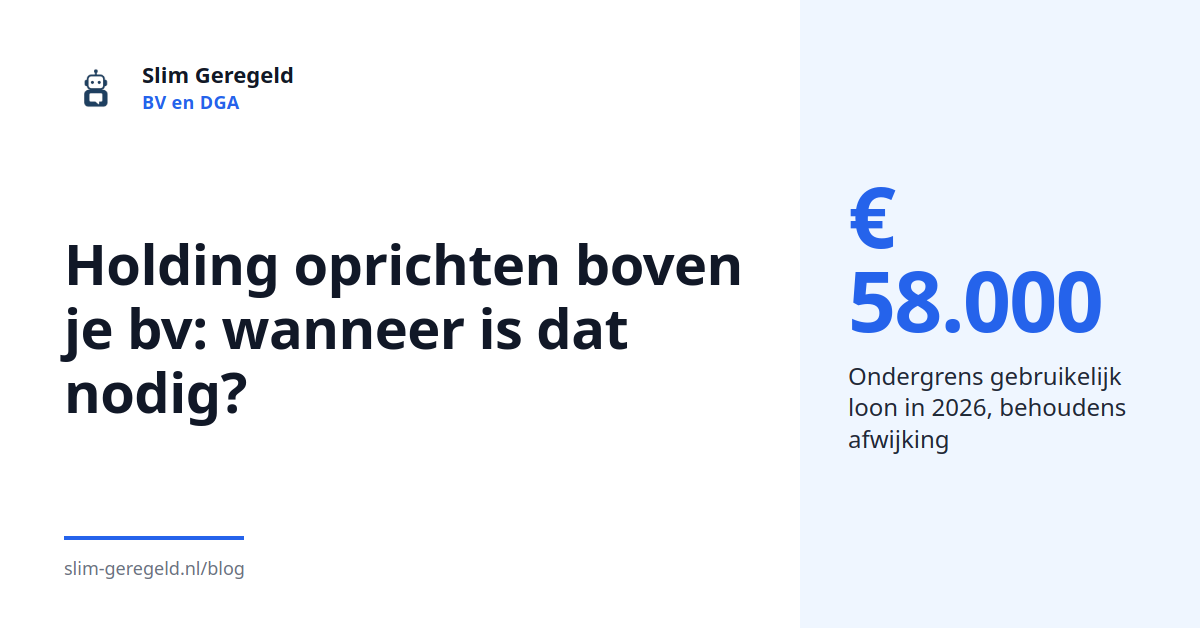
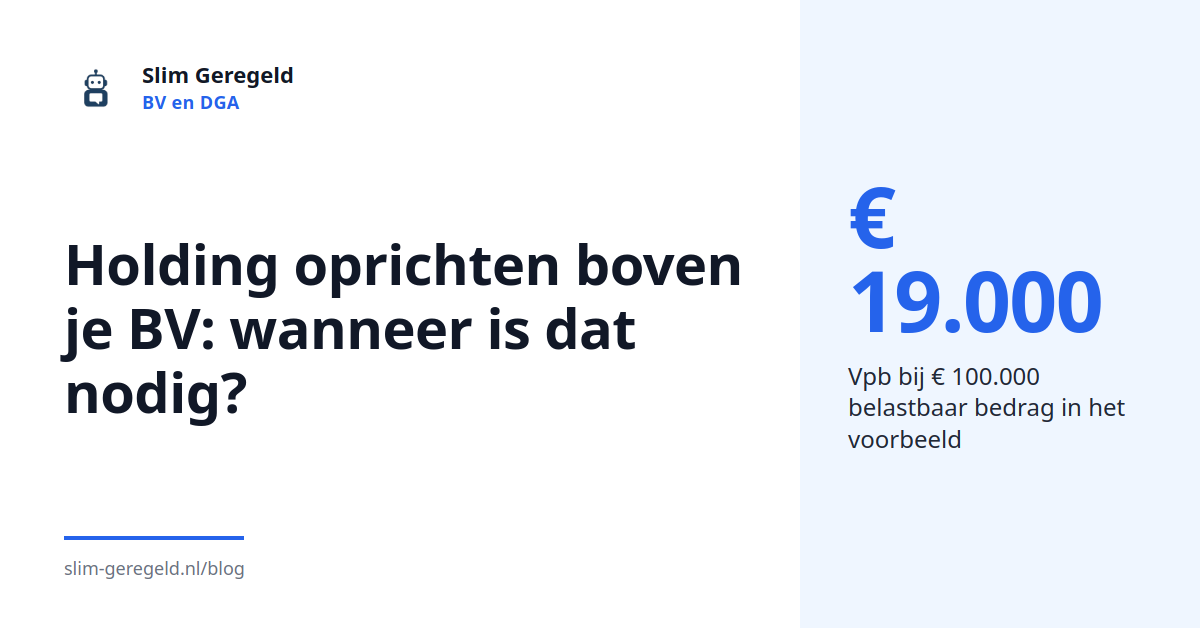
Blog bijgewerkt: Do you need a holding company above your Dutch BV? (nl+en)

Changed region(s): [[0.0925, 0.4841, 0.5242, 0.5748], [0.7092, 0.5748, 0.9558, 0.7261], [0.7092, 0.4236, 0.8017, 0.5446]]

diff --git a/content/blog/en/holding-company-above-dutch-bv.md b/content/blog/en/holding-company-above-dutch-bv.md
@@ -1,89 +1,76 @@
 ---
 title: "Do you need a holding company above your Dutch BV?"
-description: "I explain when a Dutch holding company makes sense, including corporate tax, director salary, asset protection and selling your business."
+description: "A holding company can separate assets from business risks. See what changes for Dutch corporate tax, director salary and dividends."
 date: 2026-11-05
 updated: 2026-11-05
 author: kyle
 lang: en
 translationKey: holding-company-above-dutch-bv
 cluster: bv-dga
-tags: ["holding company", "Dutch BV", "director salary", "corporate income tax", "business structure"]
+tags: ["holding company", "Dutch BV", "corporate income tax", "director salary"]
 faq:
-  - q: "Does every Dutch BV need a holding company?"
-    a: "A BV can operate independently. I assess a holding structure against the assets you want to separate, your business risks and your plans for a future sale."
-  - q: "Does a holding company remove corporate income tax?"
-    a: "Business profits remain subject to corporate income tax. A qualifying fiscal unity allows the parent company to file for the combined results."
-  - q: "Can I stop paying myself a salary after adding a holding?"
-    a: "Adding a holding does not create a salary exemption. The customary salary rules remain relevant when you work for a company in which you hold a substantial interest."
-  - q: "Can I add a holding above an existing BV?"
-    a: "An ownership restructuring may make this possible. Have the tax consequences and notarial requirements assessed before transferring your shares."
+  - q: "Is a holding company compulsory for a Dutch BV?"
+    a: "A holding company is not a general requirement for operating a BV. The decision depends on the assets you want to separate, business risks and possible sale plans."
+  - q: "Does adding a holding company reduce corporate income tax?"
+    a: "The additional company alone does not create a tax saving. A corporate income tax group can affect the outcome when losses in one company offset profits in another."
+  - q: "Does a holding company remove the director salary requirement?"
+    a: "The customary salary rules still apply when you work for a company in which you have a substantial shareholding. The structure alone does not determine your appropriate salary."
+  - q: "Can I withdraw dividends from my holding company tax-free?"
+    a: "Personal dividends from a substantial shareholding fall within box 2 income. The participation exemption available to the holding company does not exempt your personal dividend."
 status: live
 image: /blog/img/holding-company-above-dutch-bv.png
 ---
 
-You do not automatically need a holding company above your Dutch private limited company (besloten vennootschap, or BV). A [holding structure](https://www.kvk.nl/wetten-en-regels/de-holding-bv-uitgelegd/) can help separate assets from business risks and prepare for a sale. I start by asking which assets you want to separate and what you plan to do next.
+A holding company above your Dutch private limited company (BV) needs a concrete purpose. Separating valuable assets or preparing for a future sale can justify the structure. My starting point is what you want to protect or sell. Then I calculate how the additional company changes your tax and administration.
 
-## When would I consider a holding company worthwhile?
+## When does a holding company make sense?
 
-I consider a holding worth investigating when you can identify a specific purpose. That might involve accumulated reserves, a future business partnership or selling your company.
+A holding company can help separate valuable assets from your business activities. The [Dutch Chamber of Commerce (KVK)](https://www.kvk.nl/wetten-en-regels/de-holding-bv-uitgelegd/) explains that assets can sit in the holding company while the operating company (werkmaatschappij) conducts business. This structure can also help when you want to sell business activities separately. Directors’ liability remains relevant, including where a director has managed the company improperly.
 
-My first question is what remains after your salary, taxes and investments. Then I ask how much cash the business needs to keep available. Bring your latest annual accounts (jaarrekening) and an updated cash flow forecast (liquiditeitsbegroting).
+For my assessment, the first question is which assets you want to separate. These might include accumulated profits, business premises or shares in different activities. Your plans for the coming years determine which separation serves a purpose. Start by listing the assets you want outside the day-to-day operating business.
 
-I start with those figures before discussing a structure. Write down which assets you want to separate, their future purpose and the risks involved. That gives me something concrete to assess against your business plans.
+## Does a holding company remove corporate income tax?
 
-## Will a holding reduce your corporate income tax?
+Corporate income tax (vennootschapsbelasting) still applies after you add a holding company. Across several BV enquiries, I explain that corporate income tax shifts to the holding company within a tax group. That explanation specifically concerns companies forming such a group.
 
-A holding leaves corporate income tax (vennootschapsbelasting, or vpb) on business profits in place. Across several client files, I explain that corporate income tax shifts to the holding within a fiscal unity. The tax on business profits remains payable.
+Within a [corporate income tax group (fiscale eenheid)](https://www.belastingdienst.nl/wps/wcm/connect/bldcontentnl/belastingdienst/zakelijk/winst/vennootschapsbelasting/fiscale_eenheid_vennootschapsbelasting/), the subsidiary’s results are attributed to its parent company. The subsidiary continues to exist, although it no longer files independently for this tax. Losses in one company can offset profits in another within the group. This can change the combined tax bill when losses occur.
 
-A [corporate income tax fiscal unity](https://www.belastingdienst.nl/wps/wcm/connect/bldcontentnl/belastingdienst/zakelijk/winst/vennootschapsbelasting/fiscale_eenheid_vennootschapsbelasting/) (fiscale eenheid) attributes the subsidiaries’ results to the parent company. The parent files the combined return, allowing losses in one company to offset profits in another. Conditions include at least 95% ownership, profit entitlement, capital entitlement and voting rights.
+Forming a holding structure does not automatically create a tax group. You must request one, with conditions including at least 95% ownership, profit entitlement, capital entitlement and voting rights. Both companies must also use the same financial years and profit calculation rules and be effectively established in the Netherlands. Check these conditions before assuming the companies can share a corporate income tax return.
 
-The [participation exemption](https://www.belastingdienst.nl/wps/wcm/connect/bldcontentnl/belastingdienst/zakelijk/winst/vennootschapsbelasting/deelnemingsvrijstelling/deelnemingsvrijstelling) (deelnemingsvrijstelling) can prevent another corporate tax charge on qualifying dividends and gains from selling a shareholding. For your holding, those benefits can therefore fall outside taxable profits. This exemption operates separately from a fiscal unity.
+## What does the calculation look like with and without a holding?
 
-I ask for the calculation behind any proposed tax saving. It should identify the structure, each company’s profits and the tax treatment being applied.
+The holding company produces no corporate income tax saving in this example. Across different files and enquiries, I see this pattern; the calculation below uses round amounts. The operating company has EUR 100,000 of taxable income after salary and other expenses. The holding company has no taxable result of its own in this simplified comparison.
 
-## What can a holding protect, and what happens on sale?
+For 2026, the [corporate income tax rate](https://www.belastingdienst.nl/wps/wcm/connect/bldcontentnl/belastingdienst/zakelijk/winst/vennootschapsbelasting/veranderingen-vennootschapsbelasting-2026/) is 19% on taxable income up to EUR 200,000. The calculation is EUR 100,000 × 19% = EUR 19,000. That leaves EUR 81,000 inside the company or group after corporate income tax.
 
-A holding can own assets separately from the operating company (werkmaatschappij), where business activities take place. The [Dutch Chamber of Commerce](https://www.kvk.nl/wetten-en-regels/de-holding-bv-uitgelegd/) (KVK) explains how this can spread risks and support separate sales of business activities. Protection has limits, including situations where directors fail to follow the rules.
+| Item | No holding company | Holding without a tax group | Holding with a tax group |
+|---|---|---|---|
+| Operating company taxable income before attribution | EUR 100,000 | EUR 100,000 | EUR 100,000 |
+| Holding company’s own taxable result | Not applicable | EUR 0 | EUR 0 |
+| Where is the profit taxed? | Operating company | Operating company | Holding company |
+| Total corporate income tax in this example | EUR 19,000 | EUR 19,000 | EUR 19,000 |
+| Amount remaining within the company or group | EUR 81,000 | EUR 81,000 | EUR 81,000 |
 
-I want to see exactly which assets you intend to separate. Include the associated debts and obligations. A company chart alone gives me too little information to assess your exposure.
+The table deliberately keeps taxable income unchanged across all three structures. Additional administration costs, the holding company’s own income and loss offsets are excluded. This isolates the effect of the structure on the same profit. The remaining EUR 81,000 is before any distribution to you personally.
 
-When you later distribute dividends from the holding to yourself, a substantial shareholding (aanmerkelijk belang) brings those payments into [box 2](https://www.belastingdienst.nl/wps/wcm/connect/bldcontentnl/belastingdienst/prive/inkomstenbelasting/heffingskortingen_boxen_tarieven/boxen_en_tarieven/box_2/), the personal income tax category for that shareholding. Money held by your company and money paid into your personal account therefore involve separate tax steps.
+## Do you still need a director salary with a holding?
 
-## Does adding a holding remove your director salary requirement?
+The customary salary rules (gebruikelijkloonregeling) still apply when you work for a company in which you have a substantial shareholding (aanmerkelijk belang). For 2026, the [customary salary](https://www.belastingdienst.nl/wps/wcm/connect/bldcontentnl/belastingdienst/prive/vermogen_en_aanmerkelijk_belang/aanmerkelijk_belang/loon_en_aanmerkelijk_belang/) generally starts at the highest of comparable employment pay, the highest employee salary within the relevant connected companies, and EUR 58,000. A lower amount may apply if you can substantiate lower pay for comparable work. EUR 58,000 therefore does not automatically settle every director-shareholder’s salary.
 
-Your director and major shareholder salary (DGA-loon) remains relevant when you work for a BV in which you hold a substantial interest. Adding another company does not by itself remove that requirement.
+A director-shareholder (directeur-grootaandeelhouder, or DGA) needs a separate salary assessment. The supplied practice enquiries also concern payroll alone and starting salary payments during the year. An additional company does not determine the appropriate salary for your work. Put your actual duties alongside the evidence supporting your current salary.
 
-The [customary salary rules](https://www.belastingdienst.nl/wps/wcm/connect/bldcontentnl/belastingdienst/prive/vermogen_en_aanmerkelijk_belang/aanmerkelijk_belang/loon_en_aanmerkelijk_belang/) (gebruikelijkloonregeling) consider comparable employment, the highest salary within connected companies and the EUR 58,000 benchmark for 2026. The highest applicable amount governs your salary. You must substantiate a lower comparable salary if you want to use that amount.
+## Can profits reach the holding company and you tax-free?
 
-I assess your salary separately from the holding decision. I need to understand your duties and the time you spend on them. Record that work before setting your salary.
+Dividends paid to your holding company and dividends paid to you have different tax consequences. The [participation exemption (deelnemingsvrijstelling)](https://www.belastingdienst.nl/wps/wcm/connect/bldcontentnl/belastingdienst/zakelijk/winst/vennootschapsbelasting/deelnemingsvrijstelling/) generally prevents subsidiary profits already taxed from being taxed again at parent-company level. Gains from selling a qualifying shareholding can also fall within this exemption. Exceptions include non-qualifying investment participations.
 
-[Payroll taxes](https://www.belastingdienst.nl/wps/wcm/connect/bldcontentnl/belastingdienst/zakelijk/ondernemen/onderneming_starten/rechtsvorm/besloten-vennootschap-bv) (loonheffingen) on the director salary also remain part of the administration. An additional BV provides no automatic reason to close your payroll records.
+Dividends you personally receive from a substantial shareholding are [income from that shareholding](https://www.belastingdienst.nl/wps/wcm/connect/bldcontentnl/belastingdienst/prive/vermogen_en_aanmerkelijk_belang/aanmerkelijk_belang/inkomsten_uit_aanmerkelijk_belang/), taxed in the personal income category called box 2. Dutch dividend withholding tax (dividendbelasting) can be credited through your income tax return (aangifte inkomstenbelasting) for the same year. Keep corporate tax and the tax on your personal distribution separate in your calculation.
 
-## What changes with and without a holding?
+## How do you decide whether the extra BV is worthwhile?
 
-Adding a holding adds a separate BV to your structure. I compare tax, salary and accounting obligations individually so you can see what requires attention.
+My assessment weighs your purpose against the additional administration. According to [KVK](https://www.kvk.nl/wetten-en-regels/de-holding-bv-uitgelegd/), a holding structure requires bookkeeping for both companies, accurate recording of intercompany transactions and separate annual accounts (jaarrekeningen). Annual costs also increase. A corporate income tax group leaves those separate accounting obligations in place.
 
-| Item | Without a holding | With a holding |
-|---|---|---|
-| Corporate income tax return | Your BV files its return | The parent files within a fiscal unity, subject to the [conditions](https://www.belastingdienst.nl/wps/wcm/connect/bldcontentnl/belastingdienst/zakelijk/winst/vennootschapsbelasting/fiscale_eenheid_vennootschapsbelasting/) |
-| Director salary | Customary salary rules apply where relevant | The same [salary rules](https://www.belastingdienst.nl/wps/wcm/connect/bldcontentnl/belastingdienst/prive/vermogen_en_aanmerkelijk_belang/aanmerkelijk_belang/loon_en_aanmerkelijk_belang/) remain relevant |
-| Dividends paid to you personally | Taxable where you hold a substantial interest | Distributions from the holding also fall within [box 2](https://www.belastingdienst.nl/wps/wcm/connect/bldcontentnl/belastingdienst/prive/inkomstenbelasting/heffingskortingen_boxen_tarieven/boxen_en_tarieven/box_2/) |
-| Annual accounts | Accounts for your BV | The holding also has [annual accounting obligations](https://www.kvk.nl/starten/de-besloten-vennootschap-bv/) as a BV |
+Asset separation or sale preparation needs a concrete plan. Where the expectation is lower corporate tax alone, I begin with a comparison like the table above. The proposed structure then needs comparing with your current balance sheet (balans). Open your latest annual accounts and mark the assets you want to hold separately.
 
-I use this comparison as a checklist. A combined tax return does not explain all the work needed for separate company records. Ask for the annual accounting work to be specified per BV when comparing costs.
-
-## How do you add a holding above an existing BV?
-
-I start with the current share ownership and the tax consequences of transferring it. A [share transfer](https://www.kvk.nl/verkopen-en-overnemen/de-overdracht-van-je-bedrijf/) requires a civil-law notary (notaris), and selling personally held shares can generate a taxable box 2 gain. Have the proposed route assessed before transferring ownership.
-
-The [legal entity and business continue to exist](https://www.belastingdienst.nl/wps/wcm/connect/bldcontentnl/belastingdienst/zakelijk/ondernemen/onderneming_wijzigen_of_beeindigen/uw_onderneming_wijzigt_van_rechtsvorm/) following a share transfer. Transferring shares therefore does not, by itself, end your existing BV’s earlier obligations.
-
-I suggest preparing the decision in this order.
-
-1. Write down what you want the holding to achieve.
-2. Gather annual accounts, current figures, shareholder details and financing agreements.
-3. Have the tax route and ongoing accounting work assessed before arranging incorporation.
-
-Sources: [Belastingdienst](https://www.belastingdienst.nl/wps/wcm/connect/bldcontentnl/belastingdienst/zakelijk/winst/vennootschapsbelasting/deelnemingsvrijstelling/deelnemingsvrijstelling), [KVK](https://www.kvk.nl/verkopen-en-overnemen/de-overdracht-van-je-bedrijf/)
+Sources: [Belastingdienst, corporate income tax 2026](https://www.belastingdienst.nl/wps/wcm/connect/bldcontentnl/belastingdienst/zakelijk/winst/vennootschapsbelasting/veranderingen-vennootschapsbelasting-2026/), [Belastingdienst, customary salary](https://www.belastingdienst.nl/wps/wcm/connect/bldcontentnl/belastingdienst/prive/vermogen_en_aanmerkelijk_belang/aanmerkelijk_belang/loon_en_aanmerkelijk_belang/)
 
 Written with AI assistance, checked against the sources of the Belastingdienst (Dutch tax authority) and the IND.

diff --git a/content/blog/nl/holding-oprichten-boven-bv-nodig.md b/content/blog/nl/holding-oprichten-boven-bv-nodig.md
@@ -1,83 +1,76 @@
 ---
-title: "Holding oprichten boven je bv: wanneer is dat nodig?"
-description: "Een holding kan vermogen en bedrijfsrisico scheiden. Ik leg uit wat verandert voor je vpb, DGA-loon, administratie en een latere verkoop."
+title: "Holding oprichten boven je BV: wanneer is dat nodig?"
+description: "Een holding boven je BV kan vermogen en bedrijfsrisico scheiden. Lees wat dit doet met vpb, DGA-loon en dividend, met een rekenvoorbeeld."
 date: 2026-11-05
 updated: 2026-11-05
 author: kyle
 lang: nl
 translationKey: holding-company-above-dutch-bv
 cluster: bv-dga
-tags: ["holding", "bv", "DGA", "vennootschapsbelasting", "bedrijfsstructuur"]
+tags: ["holding", "bv", "DGA", "vennootschapsbelasting"]
 faq:
-  - q: "Is een holding boven mijn bv verplicht?"
-    a: "Een bv kan zelfstandig bestaan. Of een holding voor jou zinvol is, hangt onder meer af van het vermogen dat je wilt afzonderen en je plannen voor verkoop."
-  - q: "Verdwijnt de vennootschapsbelasting door een holding?"
-    a: "De belasting over de ondernemingswinst blijft bestaan. Binnen een fiscale eenheid worden de resultaten van de werkmaatschappij aan de moedermaatschappij toegerekend."
-  - q: "Moet ik mezelf vanuit een holding salaris betalen?"
-    a: "De gebruikelijkloonregeling blijft relevant als je werkt voor een bv waarin je een aanmerkelijk belang hebt. Het toevoegen van een holding geeft op zichzelf geen vrijstelling."
-  - q: "Kan een holding boven een bestaande bv worden geplaatst?"
-    a: "Dat kan worden onderzocht via een wijziging van het aandelenbezit. Laat vooraf beoordelen welke fiscale gevolgen de overdracht heeft en welke notariële stappen nodig zijn."
+  - q: "Is een holding boven mijn BV verplicht?"
+    a: "Een holding is geen standaardvoorwaarde voor ondernemen met een BV. De afweging draait vooral om vermogen dat je wilt afzonderen, bedrijfsrisico en eventuele verkoopplannen."
+  - q: "Betaal ik met een holding minder vennootschapsbelasting?"
+    a: "Een extra BV levert op zichzelf geen vpb-besparing op. Binnen een fiscale eenheid worden de resultaten bij de moedermaatschappij belast; verliesverrekening kan wel verschil maken."
+  - q: "Moet ik met een holding nog DGA-loon ontvangen?"
+    a: "De gebruikelijkloonregeling blijft gelden als je werkt voor een vennootschap waarin je een aanmerkelijk belang hebt. De holdingstructuur maakt daarop geen algemene uitzondering."
+  - q: "Is dividend van mijn holding naar privé belastingvrij?"
+    a: "Dividend dat je privé ontvangt uit je aanmerkelijk belang valt onder box 2. De deelnemingsvrijstelling voor de holding verandert dat niet."
 status: live
 image: /blog/img/holding-oprichten-boven-bv-nodig.png
 ---
 
-Een holding oprichten boven je bv is geen standaardvereiste. Een [holdingstructuur](https://www.kvk.nl/wetten-en-regels/de-holding-bv-uitgelegd/) kan helpen vermogen buiten je bedrijfsrisico te plaatsen en een verkoop voor te bereiden. Ik beoordeel daarom eerst welk vermogen je wilt afzonderen en wat je toekomstplannen zijn.
+Een holding oprichten boven je BV raad ik alleen aan met een concreet doel. Denk aan vermogen afzonderen of een toekomstige verkoop voorbereiden. Bij de vraag of een holding nodig is, begin ik daarom bij je plannen. Daarna reken ik door wat de structuur fiscaal en administratief verandert.
 
-## Wanneer vind ik een holding boven je bv zinvol?
+## Wanneer heeft een holding boven je BV zin?
 
-Ik vind een holding het onderzoeken waard zodra je concreet kunt aanwijzen wat je ermee wilt regelen. Denk aan opgebouwde reserves, een toekomstige samenwerking of je verkoopplannen.
+Een holding kan zin hebben wanneer je waardevolle bezittingen wilt scheiden van bedrijfsactiviteiten. Volgens [KVK](https://www.kvk.nl/wetten-en-regels/de-holding-bv-uitgelegd/) kun je belangrijke bezittingen in de holding onderbrengen en bedrijfsactiviteiten in de werkmaatschappij uitvoeren. Ook kan de structuur helpen wanneer je later bedrijfsonderdelen afzonderlijk wilt verkopen. Bestuurdersaansprakelijkheid blijft daarbij een aandachtspunt, bijvoorbeeld bij onbehoorlijk bestuur.
 
-Mijn eerste vraag is wat er na je salaris, belastingen en investeringen overblijft. Daarna wil ik weten hoeveel daarvan beschikbaar moet blijven voor je onderneming. Neem daarvoor je laatste jaarrekening en een actuele liquiditeitsbegroting erbij.
+Voor mijn beoordeling wil ik eerst weten wat je precies wilt afzonderen. Gaat het om opgebouwde winst, een bedrijfspand of aandelen in verschillende activiteiten? Vervolgens zet ik dat naast je plannen voor de komende jaren. Schrijf daarom eerst op welke bezittingen je buiten de dagelijkse onderneming wilt houden.
 
-Ik begin dus met je cijfers. Schrijf op welk vermogen je wilt afzonderen, waarvoor je het later nodig hebt en welke risico’s je wilt beperken. Daarmee kan ik de afweging voor jouw bv maken.
+## Verdwijnt de vennootschapsbelasting door een holding?
 
-## Betaal je met een holding minder vennootschapsbelasting?
+De vennootschapsbelasting blijft bestaan wanneer je een holding toevoegt. Bij meerdere BV-vragen leg ik uit dat de vpb bij een fiscale eenheid naar de holding verschuift. Die uitleg heeft dus betrekking op de fiscale eenheid. Zonder die toevoeging is de uitleg te ruim.
 
-Een holding laat de vennootschapsbelasting over je ondernemingswinst bestaan. In verschillende dossiers leg ik uit dat de vpb bij een fiscale eenheid naar de holding verschuift. De belasting over de winst blijft bestaan.
+Binnen een [fiscale eenheid voor de vennootschapsbelasting](https://www.belastingdienst.nl/wps/wcm/connect/bldcontentnl/belastingdienst/zakelijk/winst/vennootschapsbelasting/fiscale_eenheid_vennootschapsbelasting/) worden de resultaten van de dochter toegerekend aan de moedermaatschappij. De dochter blijft bestaan en is dan niet meer zelfstandig aangifteplichtig. Verliezen van de ene maatschappij kunnen worden verrekend met winsten van een andere binnen dezelfde eenheid. Dat kan de gezamenlijke belasting beïnvloeden wanneer binnen de groep verliezen voorkomen.
 
-Bij een [fiscale eenheid voor de vennootschapsbelasting](https://www.belastingdienst.nl/wps/wcm/connect/bldcontentnl/belastingdienst/zakelijk/winst/vennootschapsbelasting/fiscale_eenheid_vennootschapsbelasting/) worden de resultaten aan de moedermaatschappij toegerekend. Je doet dan gezamenlijk aangifte via de moedermaatschappij; verliezen van de ene maatschappij kunnen worden verrekend met winsten van een andere. Daarvoor gelden voorwaarden, waaronder minimaal 95% aandelenbezit, winstrecht, vermogensrecht en stemrecht.
+Een holdingstructuur vormt niet automatisch zo’n eenheid; daarvoor doe je een verzoek. De [voorwaarden](https://www.belastingdienst.nl/wps/wcm/connect/bldcontentnl/belastingdienst/zakelijk/winst/vennootschapsbelasting/fiscale_eenheid_vennootschapsbelasting/) omvatten onder meer minimaal 95% aandelenbezit, winstrecht, vermogensrecht en stemrecht. Daarnaast moeten beide maatschappijen dezelfde boekjaren en winstbepalingen hanteren en feitelijk in Nederland gevestigd zijn. Controleer die voorwaarden voordat je uitgaat van één gezamenlijke aangifte.
 
-Daarnaast voorkomt de [deelnemingsvrijstelling](https://www.belastingdienst.nl/wps/wcm/connect/bldcontentnl/belastingdienst/zakelijk/winst/vennootschapsbelasting/deelnemingsvrijstelling/deelnemingsvrijstelling) onder voorwaarden een tweede heffing over ontvangen dividend en verkoopwinst op de deelneming. Voor jouw holding betekent dit dat zulke voordelen buiten haar belastbare winst kunnen blijven. Die vrijstelling en de fiscale eenheid zijn verschillende regelingen.
+## Hoe ziet de rekensom met en zonder holding eruit?
 
-Ik wil daarom vooraf weten waarop een voorgesteld belastingvoordeel is gebaseerd. Vraag om een berekening waarin de gekozen structuur, de winst per bv en de gebruikte regeling afzonderlijk staan.
+Bij dezelfde belastbare winst levert de holding in dit voorbeeld geen vpb-besparing op. In verschillende dossiers en vragen zie ik dit patroon; hieronder staat een rekenvoorbeeld met ronde bedragen. De werkmaatschappij heeft € 100.000 belastbaar bedrag, na verwerking van loon en overige kosten. De holding heeft in dit vereenvoudigde voorbeeld geen eigen belastbaar resultaat.
 
-## Wat beschermt een holding en wat gebeurt er bij verkoop?
+Voor 2026 geldt volgens de [Belastingdienst](https://www.belastingdienst.nl/wps/wcm/connect/bldcontentnl/belastingdienst/zakelijk/winst/vennootschapsbelasting/veranderingen-vennootschapsbelasting-2026/) 19% vpb tot en met € 200.000 belastbaar bedrag. De berekening is € 100.000 × 19% = € 19.000. Na deze belasting resteert in het voorbeeld € 81.000 binnen de BV of groep.
 
-Een holding kan bezittingen buiten de werkmaatschappij onderbrengen, waar de bedrijfsactiviteiten plaatsvinden. Volgens de [KVK](https://www.kvk.nl/wetten-en-regels/de-holding-bv-uitgelegd/) helpt dat risico’s spreiden en bedrijfsonderdelen afzonderlijk verkopen. Die bescherming kent grenzen, bijvoorbeeld wanneer bestuurders zich niet aan de regels houden.
+| Onderdeel | Zonder holding | Holding zonder fiscale eenheid | Holding met fiscale eenheid |
+|---|---|---|---|
+| Belastbaar bedrag werkmaatschappij vóór toerekening | € 100.000 | € 100.000 | € 100.000 |
+| Eigen belastbaar resultaat holding | Niet van toepassing | € 0 | € 0 |
+| Waar wordt de winst belast? | Werkmaatschappij | Werkmaatschappij | Holding |
+| Totale vpb in dit rekenvoorbeeld | € 19.000 | € 19.000 | € 19.000 |
+| Resterend bedrag binnen BV of groep | € 81.000 | € 81.000 | € 81.000 |
 
-Ik wil bij die afweging precies zien welke bezittingen je wilt afzonderen. Zet ook de bijbehorende schulden en verplichtingen erbij. Alleen het woord ‘holding’ boven een organisatieschema zegt mij onvoldoende over jouw risico.
+De tabel houdt het belastbare bedrag bewust gelijk. Extra administratiekosten, eigen inkomsten van de holding en verliesverrekening zijn buiten de vergelijking gehouden. Daardoor zie je uitsluitend wat de structuur met deze winst doet. De € 81.000 staat hier vóór een eventuele uitkering aan privé.
 
-Haal je vervolgens dividend uit je holding naar privé, dan valt dat bij een aanmerkelijk belang in [box 2](https://www.belastingdienst.nl/wps/wcm/connect/bldcontentnl/belastingdienst/prive/inkomstenbelasting/heffingskortingen_boxen_tarieven/boxen_en_tarieven/box_2/). Voor jou betekent dit dat geld in de holding en geld op je privérekening fiscaal verschillende stappen zijn.
+## Heb je met een holding nog DGA-loon nodig?
 
-## Verdwijnt je DGA-loon door een holding?
+De gebruikelijkloonregeling blijft gelden wanneer je werkt voor een vennootschap waarin je een aanmerkelijk belang hebt. Het [gebruikelijk loon](https://www.belastingdienst.nl/wps/wcm/connect/bldcontentnl/belastingdienst/prive/vermogen_en_aanmerkelijk_belang/aanmerkelijk_belang/loon_en_aanmerkelijk_belang/) moet in 2026 in beginsel minimaal het hoogste zijn van het vergelijkbare loon, het hoogste werknemersloon binnen de relevante verbonden vennootschappen en € 58.000. Kun je aannemelijk maken dat vergelijkbare werkzaamheden lager worden beloond, dan kan een lager bedrag gelden. € 58.000 is daarmee geen automatisch passend salaris voor iedere DGA.
 
-Je DGA-loon blijft een aandachtspunt wanneer je werkt voor een bv waarin je een aanmerkelijk belang hebt. De [gebruikelijkloonregeling](https://www.belastingdienst.nl/wps/wcm/connect/bldcontentnl/belastingdienst/prive/vermogen_en_aanmerkelijk_belang/aanmerkelijk_belang/loon_en_aanmerkelijk_belang/) kijkt naar vergelijkbaar werk, het hoogste loon binnen de verbonden ondernemingen en de ondergrens van € 58.000 in 2026. Het hoogste toepasselijke bedrag is leidend; een lager vergelijkbaar loon moet je aannemelijk maken.
+In mijn beoordeling houd ik de loonvraag apart van de holdingvraag. De aangeleverde praktijkvragen gaan ook over alleen loonadministratie of loon starten gedurende het jaar. Een extra vennootschap geeft op zichzelf geen antwoord op het passende loon. Leg daarom je werkzaamheden en de onderbouwing van je huidige salaris naast elkaar.
 
-Ik beoordeel je loon daarom afzonderlijk van de keuze voor een holding. Daarbij wil ik weten welke werkzaamheden je uitvoert en hoeveel tijd je daaraan besteedt. Leg die werkzaamheden vast voordat je het salaris vaststelt.
+## Kun je winst belastingvrij naar de holding en privé halen?
 
-Ook de [loonheffingen over het DGA-salaris](https://www.belastingdienst.nl/wps/wcm/connect/bldcontentnl/belastingdienst/zakelijk/ondernemen/onderneming_starten/rechtsvorm/besloten-vennootschap-bv) blijven onderdeel van de administratie. Een extra bv vormt op zichzelf geen reden om de loonadministratie te beëindigen.
+Dividend naar de holding en dividend naar privé hebben verschillende fiscale gevolgen. De [deelnemingsvrijstelling](https://www.belastingdienst.nl/wps/wcm/connect/bldcontentnl/belastingdienst/zakelijk/winst/vennootschapsbelasting/deelnemingsvrijstelling/) voorkomt in het algemeen dat al belaste dochterwinst opnieuw wordt belast bij de moedermaatschappij. Ook winst bij verkoop van een deelneming kan hieronder vallen. De vrijstelling kent uitzonderingen, waaronder niet-kwalificerende beleggingsdeelnemingen.
 
-## Wat verandert er met en zonder holding?
+Ontvang je zelf dividend uit je aanmerkelijk belang, dan is dat [inkomen uit aanmerkelijk belang](https://www.belastingdienst.nl/wps/wcm/connect/bldcontentnl/belastingdienst/prive/vermogen_en_aanmerkelijk_belang/aanmerkelijk_belang/inkomsten_uit_aanmerkelijk_belang/). Ingehouden Nederlandse dividendbelasting kun je verrekenen in je aangifte inkomstenbelasting over hetzelfde jaar. Geld in de holding vraagt dus om een afzonderlijke beoordeling voordat je het privé gebruikt. Houd in je berekening de winstbelasting en de belasting bij privé-uitkering apart.
 
-Met een holding voeg je een afzonderlijke bv toe aan je structuur. In mijn vergelijking houd ik belastingheffing, loon en administratie uit elkaar, zodat je de gevolgen afzonderlijk kunt beoordelen.
+## Hoe bepaal je of de extra BV voor jou nodig is?
 
-| Onderdeel | Zonder holding | Met holding |
-|---|---|---|
-| Vpb-aangifte | Je bv doet aangifte | Via de moeder bij een fiscale eenheid; zie de [voorwaarden](https://www.belastingdienst.nl/wps/wcm/connect/bldcontentnl/belastingdienst/zakelijk/winst/vennootschapsbelasting/fiscale_eenheid_vennootschapsbelasting/) |
-| DGA-loon | Gebruikelijkloonregeling bij toepasselijkheid | Dezelfde [loonregels](https://www.belastingdienst.nl/wps/wcm/connect/bldcontentnl/belastingdienst/prive/vermogen_en_aanmerkelijk_belang/aanmerkelijk_belang/loon_en_aanmerkelijk_belang/) blijven relevant |
-| Dividend naar privé | Belast bij een aanmerkelijk belang | Uitkering vanuit de holding valt eveneens in [box 2](https://www.belastingdienst.nl/wps/wcm/connect/bldcontentnl/belastingdienst/prive/inkomstenbelasting/heffingskortingen_boxen_tarieven/boxen_en_tarieven/box_2/) |
-| Jaarrekening | Verantwoording voor je bv | Ook de holding heeft als bv [jaarrekeningverplichtingen](https://www.kvk.nl/starten/de-besloten-vennootschap-bv/) |
+Mijn advies is om het doel af te wegen tegen de extra administratie. Volgens [KVK](https://www.kvk.nl/wetten-en-regels/de-holding-bv-uitgelegd/) vraagt een holdingstructuur administratie voor beide BV’s, nauwkeurige verwerking van onderlinge transacties en afzonderlijke jaarrekeningen. Ook de jaarlijkse kosten nemen daardoor toe. Een fiscale eenheid voor de vpb neemt die afzonderlijke administraties niet weg.
 
-Ik gebruik deze vergelijking als controlelijst. Een gezamenlijke belastingaangifte vertelt bijvoorbeeld nog onvoldoende over de werkzaamheden voor de afzonderlijke administraties. Laat in je kostenvergelijking daarom benoemen welke werkzaamheden per bv worden uitgevoerd.
+Voor vermogen afzonderen of verkoopvoorbereiding wil ik een concreet plan zien. Bij alleen de verwachting van minder vpb begin ik met een vergelijking zoals hierboven. Daarna beoordeel ik de gewenste structuur naast de huidige balans. Pak daarvoor je laatste jaarrekening en markeer welke bezittingen je afzonderlijk wilt houden.
 
-## Hoe pak je een holding boven een bestaande bv aan?
-
-Ik begin met het huidige aandelenbezit en de fiscale gevolgen van een overdracht. Een [aandelentransactie](https://www.kvk.nl/verkopen-en-overnemen/de-overdracht-van-je-bedrijf/) verloopt via de notaris; bij verkoop van privé gehouden aandelen kan verkoopwinst in box 2 ontstaan. Laat de voorgenomen route daarom beoordelen voordat je aandelen overdraagt.
-
-Bij een aandelenoverdracht blijven de [rechtspersoon en onderneming bestaan](https://www.belastingdienst.nl/wps/wcm/connect/bldcontentnl/belastingdienst/zakelijk/ondernemen/onderneming_wijzigen_of_beeindigen/uw_onderneming_wijzigt_van_rechtsvorm/). Voor jouw bestaande bv betekent dit dat de overdracht van aandelen op zichzelf haar eerdere verplichtingen niet beëindigt.
-
-Mijn advies is om eerst je doel vast te leggen. Verzamel daarna de jaarrekening, actuele cijfers, aandeelhoudersgegevens en financieringsafspraken. Laat vervolgens de fiscale route en de jaarlijkse werkzaamheden doorrekenen voordat je de oprichting laat uitvoeren.
-
-Bronnen: [Belastingdienst](https://www.belastingdienst.nl/wps/wcm/connect/bldcontentnl/belastingdienst/zakelijk/winst/vennootschapsbelasting/deelnemingsvrijstelling/deelnemingsvrijstelling), [KVK](https://www.kvk.nl/verkopen-en-overnemen/de-overdracht-van-je-bedrijf/)
+Bronnen: [Belastingdienst, vpb 2026](https://www.belastingdienst.nl/wps/wcm/connect/bldcontentnl/belastingdienst/zakelijk/winst/vennootschapsbelasting/veranderingen-vennootschapsbelasting-2026/), [Belastingdienst, gebruikelijk loon](https://www.belastingdienst.nl/wps/wcm/connect/bldcontentnl/belastingdienst/prive/vermogen_en_aanmerkelijk_belang/aanmerkelijk_belang/loon_en_aanmerkelijk_belang/)
 
 Geschreven met AI-ondersteuning, gecontroleerd met de bronnen van Belastingdienst en IND.
